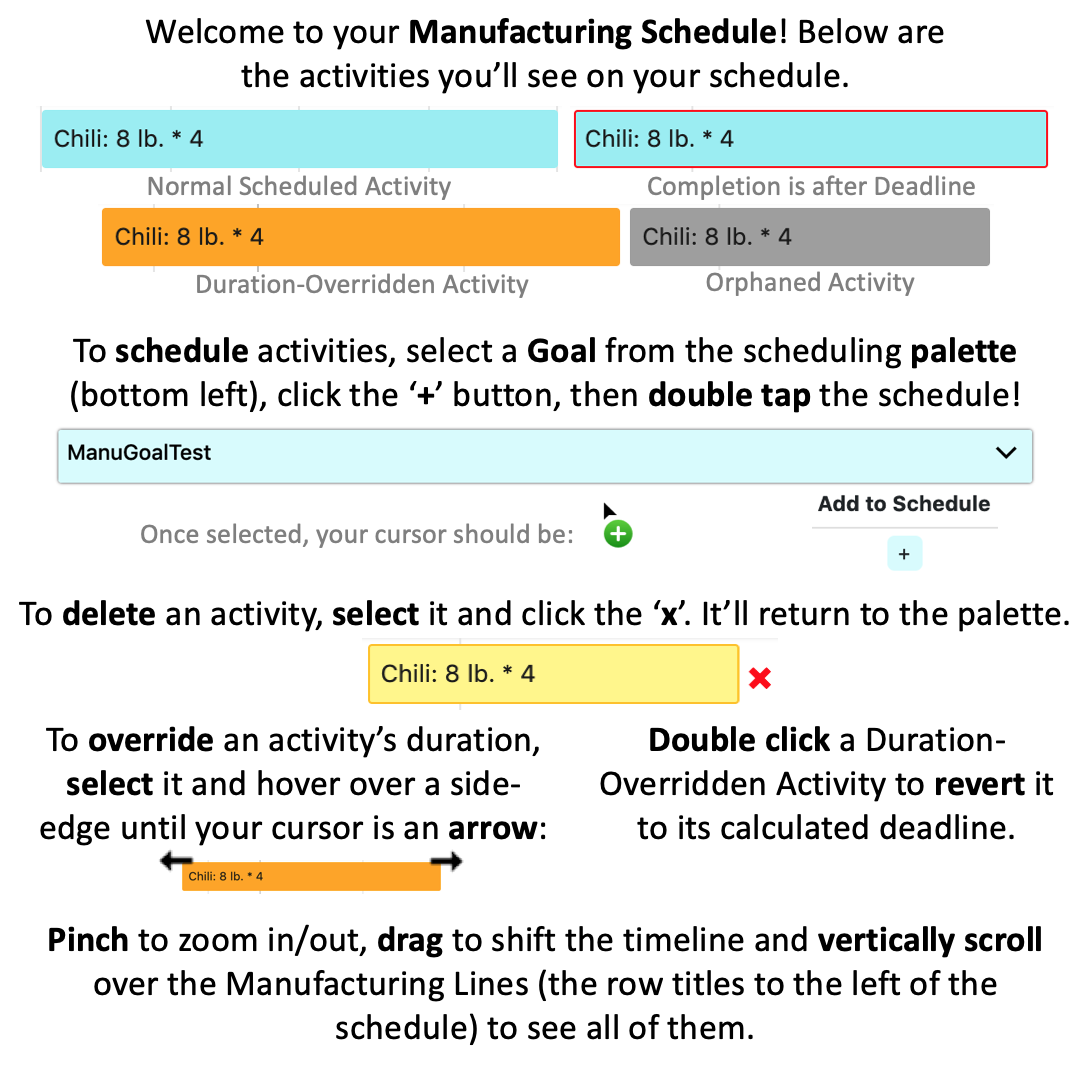
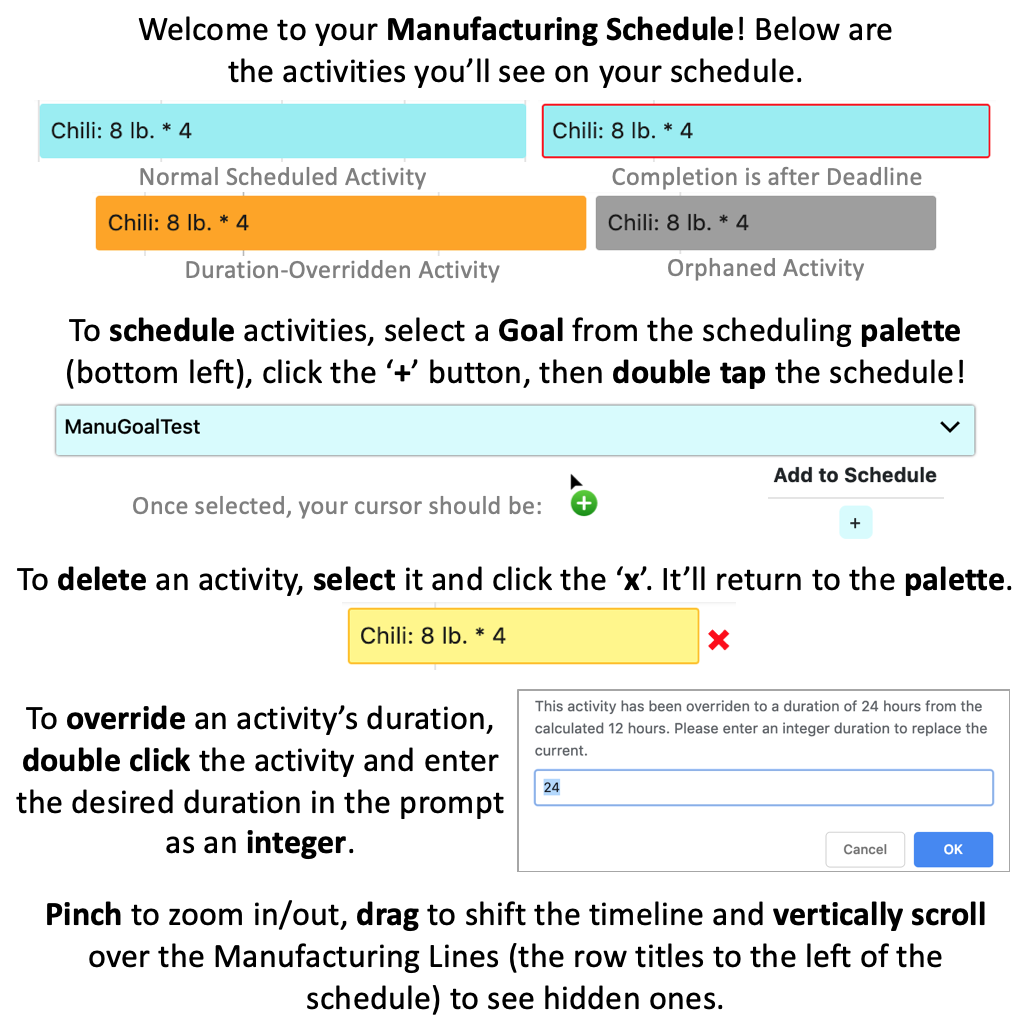
updated schedule bugs

Changed region(s): [[0.0, 0.3125, 0.9922, 1.0], [0.031, 0.0, 0.9612, 0.2812], [0.9612, 0.75, 0.9922, 0.7812]]

diff --git a/client/src/components/ManufacturingSchedule/ManuSchedulePage.js b/client/src/components/ManufacturingSchedule/ManuSchedulePage.js
@@ -61,20 +61,17 @@ export default class ManuSchedulePage extends Component {
         items.length = 0;
         groups.length = 0;
         let initial_activities = await SubmitRequest.submitGetData(Constants.manu_activity_page_name);
-        console.log(initial_activities);
         let activities = []
         for(var i = 0; i < initial_activities.data.length; i ++){
             let activity = initial_activities.data[i];
             activities.push(await CheckErrors.updateActivityErrors(activity))
         }
-        console.log(activities);
         let goals = await SubmitRequest.submitGetManuGoalsByFilter('_', '_', '_');
         activities.map(act => {
             this.scheduleOrPalette(act, goals);
         });
         let unscheduled_goals = goals.data.filter(goal => {
             let not_all_scheduled = false;
-            console.log(goal)
             goal.activities.map(act => {
                 if (act.unscheduled_enabled) not_all_scheduled = true
             })
@@ -94,7 +91,6 @@ export default class ManuSchedulePage extends Component {
 
     scheduleOrPalette(act, goals) {
         if (act.scheduled) {
-            console.log("in scheduled action");
             if (items.find(i => i._id === act._id) === undefined) {
                 let start = new Date(act.start);
                 let end = new Date(start.getTime() + Math.floor(act.duration/10)*24*60*60*1000 + (act.duration%10 * 60 * 60 * 1000));
@@ -123,7 +119,6 @@ export default class ManuSchedulePage extends Component {
                         _id: act._id
                     }); 
                 }
-                console.log(items)
             }
         }
     }
@@ -139,12 +134,36 @@ export default class ManuSchedulePage extends Component {
         if (e.item !== null) {
             let clicked_item = items.filter(i => {return i.id === e.item})
             let clicked_activity = this.state.activities.filter(a => {return a._id === clicked_item[0]._id})
-            console.log(clicked_activity[0])
-            if (window.confirm('Revert the overridden duration of ' + clicked_activity[0].duration + ' hours to the calculated ' + 
-               (clicked_activity[0].sku.manu_rate*clicked_activity[0].quantity) + ' hours?')) {
-                    clicked_activity[0].overwritten = false
+            let prompt_str = 'This activity '
+            if (clicked_activity[0].overwritten) {
+                prompt_str += 'has been overriden to a duration of ' + clicked_activity[0].duration + ' hours from the calculated ' + 
+                Math.round(clicked_activity[0].sku.manu_rate*clicked_activity[0].quantity) + ' hours. ';
+            }
+            else {
+                prompt_str += 'has a calculated duration of ' + 
+                Math.round(clicked_activity[0].sku.manu_rate*clicked_activity[0].quantity) + ' hours. ';
+            }
+            prompt_str += 'Please enter an integer duration to replace the current.'
+            let val = window.prompt(prompt_str, clicked_activity[0].duration)
+            if (parseInt(val)) {
+                let start = new Date(clicked_item[0].start)
+                let end = new Date()
+                let duration = parseInt(val)
+                end.setTime(start.getTime() + (Math.floor(duration/10)*24 + (duration%10))*60*60*1000)
+                clicked_item[0].start = start
+                clicked_item[0].end = end
+                if (!this.checkWithinHoursAndOverlap(clicked_item[0])) {
+                    return
+                }
+                else {
+                    clicked_activity[0].overwritten = !(parseInt(val) === Math.round(clicked_activity[0].sku.manu_rate*clicked_activity[0].quantity))
+                    clicked_activity[0].duration = parseInt(val)
                     await CheckErrors.updateActivityErrors(clicked_activity[0]);
                     await this.loadScheduleData();
+                }
+            }
+            else if (val === NaN) {
+                alert('Duration must be an integer!')
             }
         }
     }
@@ -158,7 +177,6 @@ export default class ManuSchedulePage extends Component {
         let new_act = null
         if (this.state.activity_to_schedule === null) {
             new_act = activity
-            alert('Double click to place on the schedule!')
         }
         this.setState({
             activity_to_schedule: new_act
@@ -177,42 +195,36 @@ export default class ManuSchedulePage extends Component {
         let act = await SubmitRequest.submitGetManufacturingActivityByID(item._id)
         let end = new Date(item.end)
         let start = new Date(item.start)
-        if (!this.checkWithinHoursAndOverlap(item, callback) || 
-            !this.checkManuLineIsValid(item, act.data[0].sku.manu_lines, callback)) {
+        console.log(item)
+        if (!this.checkWithinHoursAndOverlap(item) || 
+            !this.checkManuLineIsValid(item, act.data[0].sku.manu_lines)) {
+            callback(null);
             return
         }
         let duration = parseInt(act.data[0].duration);
         let hour_difference = (end.getTime()-start.getTime())/(60*60*1000);
+        console.log('hour diff: ' + hour_difference)
         if (hour_difference !== duration && (hour_difference !== Math.floor(duration/10)*24 + (duration%10))) {
-            if (currentUserIsAdmin().isValid){
-                act.data[0].start = item.start
-                act.data[0].duration = Math.floor(hour_difference/24)*10 + (hour_difference%24)
-                act.data[0].overwritten = true
-                console.log("here 1")
-                await CheckErrors.updateActivityErrors(act.data[0]);
-                console.log("here 2")
-                callback(item)
-                console.log("here 3")
-                await this.loadScheduleData();
-                console.log("here 4")
-                await this.setState({error_change: true})
-                return
-            }
-            else {
-                alert('Only Admins can override durations!')
-                callback(null)
-                return
-            }
+            //removing drag to change duration functionality because of duration calculations
+            callback(null)
+            return 
+            act.data[0].start = item.start
+            this.determineWorkHours(start, end)
+            act.data[0].duration = Math.floor(hour_difference/24)*10 + (hour_difference%24)
+            act.data[0].overwritten = true
         }
-        act.data[0].start = item.start;
-        act.data[0].manu_line = { _id: item.group };
+        else {
+            act.data[0].start = item.start;
+            act.data[0].manu_line = { _id: item.group };
+        }
+        console.log(act.data[0])
         await CheckErrors.updateActivityErrors(act.data[0]);
         callback(item)
         await this.loadScheduleData();
         await this.setState({error_change: true})
     }
 
-    checkManuLineIsValid(item, sku_manu_lines, callback) {
+    checkManuLineIsValid(item, sku_manu_lines) {
         if (!sku_manu_lines.includes(item.group)){
             let lines = this.state.lines.filter(l => { return sku_manu_lines.includes(l._id) } )
             lines = lines.map(l => "'" + l.name + "'");
@@ -223,16 +235,14 @@ export default class ManuSchedulePage extends Component {
                 let lines_str = lines.join(', ')
                 alert('This activity can only be placed on ' + lines_str)
             }
-            callback(null)
             return false;
         }
         return true;
     }
 
-    checkWithinHoursAndOverlap(item, callback) {
+    checkWithinHoursAndOverlap(item) {
         if (item.start.getHours() < 8 || (item.end.getHours() === 18 && item.end.getMinutes() > 0) || (item.end.getHours() > 18)) {
             alert("Activities can't be scheduled outside working hours!");
-            callback(null);
             return false;
         }
         let toReturn = true
@@ -241,12 +251,7 @@ export default class ManuSchedulePage extends Component {
                 if ((i.start < item.end && i.start > item.start) ||
                     (i.end > item.start && i.end < item.end) ||
                     (i.start <= item.start && i.end >= item.end)){
-                        console.log(item.start)
-                        console.log(item.end)
-                        console.log(i.start)
-                        console.log(i.end)
                         alert("Activities can't overlap!");
-                        callback(null)
                         toReturn = false
                     }
             }
@@ -260,10 +265,11 @@ export default class ManuSchedulePage extends Component {
             let start = new Date(item.start)
             let end = new Date()
             let duration = Math.round(activity.duration)
-            end.setTime(start.getTime() + duration*60*60*1000)
+            end.setTime(start.getTime() + (Math.floor(duration/10)*24 + (duration%10))*60*60*1000)
             item.end = end
-            if (!this.checkWithinHoursAndOverlap(item, callback) || 
-                !this.checkManuLineIsValid(item, this.state.activity_to_schedule.sku.manu_lines, callback)) {
+            if (!this.checkWithinHoursAndOverlap(item) || 
+                !this.checkManuLineIsValid(item, this.state.activity_to_schedule.sku.manu_lines)) {
+                callback(null)
                 return
             }
             activity.duration = duration
@@ -290,7 +296,6 @@ export default class ManuSchedulePage extends Component {
         act.data[0].scheduled = false;
         act.data[0].manu_line = null;
 
-        console.log(this.state.error_change)
         await CheckErrors.updateActivityErrors(act.data[0]);
         await this.loadScheduleData();
         callback(item)
@@ -337,7 +342,7 @@ export default class ManuSchedulePage extends Component {
         showMajorLabels: true,
         showCurrentTime: true,
         zoomMin: 86400000,
-        zoomMax: 5256000000,
+        zoomMax: 630700000000,
         format: {
             minorLabels: {
                 minute: 'h:mma',

diff --git a/client/src/helpers/CheckErrors.js b/client/src/helpers/CheckErrors.js
@@ -2,23 +2,18 @@ import SubmitRequest from './SubmitRequest'
 
 export default class CheckErrors{
     static async updateActivityErrors(activity){
-        console.log("this is the activity: "+JSON.stringify(activity));
         var { data } = await SubmitRequest.submitQueryString(`/api/manugoals_activity/${activity._id}`);
-        console.log("this is the data:"+ JSON.stringify(data));
         var goal = data[0];
         var orphaned = CheckErrors.checkOrphaned(goal, activity)
         var unscheduled_enabled = CheckErrors.checkUnscheduledEnabled(goal,activity);
         var over_deadline = CheckErrors.checkOverDeadline(goal, activity);
-        console.log(over_deadline)
         var new_activity = {
             ...activity, 
             orphaned, 
             unscheduled_enabled, 
             over_deadline
         }
-        console.log(new_activity)
         let response =  await SubmitRequest.submitUpdateItem('manuactivities', new_activity);
-        console.log(response);
         return response.data;
     }
 
@@ -36,8 +31,6 @@ export default class CheckErrors{
         }
         var end = this.getEndTime(activity);
         var deadline = new Date(goal.deadline);
-        console.log('end: ' + end)
-        console.log('deadline: ' + deadline)
         return (end.getTime() > deadline.getTime());
     }
 
@@ -50,7 +43,6 @@ export default class CheckErrors{
 
     static async getErrorMessages(activity){
         var error_messages = [];
-        console.log(activity);
         var { data } = await SubmitRequest.submitQueryString(`/api/manugoals_activity/${activity._id}`);
         var name = `Activity [Manufacturing Goal:${data[0].name}, SKU: ${activity.sku.name}:${activity.sku.unit_size}*${activity.sku.cpc}]`
         if(activity.overwritten){
